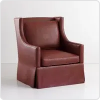
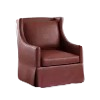
added some code

diff --git a/index.html b/index.html
@@ -46,7 +46,7 @@
                     <div class="full-screen-image">
                         <div class="show-image-column">
                             <div class="display-image">
-                                <img src="./Image/Image-1.png" alt="">
+                                <img src="./Image/test-image.png" alt="">
                             </div>
                             <div class="view-in-room">
                                 <p>View in room</p>
@@ -95,83 +95,83 @@
                         <div class="horizontal-line"></div>
                         <!-- image color variant -->
                         <div class="color-palates">
-                            <div onclick="setColorImage('invert(32%) sepia(12%) saturate(228%) hue-rotate(10deg) brightness(90%) contrast(95%)')"
+                            <div onclick="setColorImage(' invert(21%) sepia(54%) saturate(300%) hue-rotate(4deg) brightness(95%) contrast(83%)')"
                                 class="color-box">
                                 <div class="color Olive"></div>
                                 <h2>Olive</h2>
                             </div>
 
-                            <div onclick="setColorImage('invert(63%) sepia(39%) saturate(374%) hue-rotate(313deg) brightness(91%) contrast(87%)')"
+                            <div onclick="setColorImage(' invert(59%) sepia(11%) saturate(1486%) hue-rotate(348deg) brightness(93%) contrast(91%)')"
                                 class="color-box">
                                 <div class="color Camel"></div>
                                 <h2>Camel</h2>
                             </div>
-                            <div onclick="setColorImage('invert(78%) sepia(4%) saturate(172%) hue-rotate(159deg) brightness(92%) contrast(88%)')"
+                            <div onclick="setColorImage('invert(66%) sepia(11%) saturate(133%) hue-rotate(165deg) brightness(92%) contrast(88%)')"
                                 class="color-box">
                                 <div class="color Platinum-Grey"></div>
                                 <h2>Platinum Grey</h2>
                             </div>
-                            <div onclick="setColorImage('invert(35%) sepia(20%) saturate(303%) hue-rotate(333deg) brightness(88%) contrast(96%)')"
+                            <div onclick="setColorImage('invert(18%) sepia(25%) saturate(1229%) hue-rotate(309deg) brightness(86%) contrast(86%)')"
                                 class="color-box">
                                 <div class="color Oxblood"></div>
                                 <h2>Oxblood</h2>
                             </div>
-                            <div onclick="setColorImage('invert(19%) sepia(11%) saturate(331%) hue-rotate(189deg) brightness(92%) contrast(95%)')"
+                            <div onclick="setColorImage('invert(14%) sepia(8%) saturate(601%) hue-rotate(211deg) brightness(99%) contrast(87%)')"
                                 class="color-box">
                                 <div class="color Anthracite"></div>
                                 <h2>Anthracite</h2>
                             </div>
-                            <div onclick="setColorImage('invert(30%) sepia(82%) saturate(5867%) hue-rotate(339deg) brightness(90%) contrast(97%)')"
+                            <div onclick="setColorImage('invert(69%) sepia(65%) saturate(4467%) hue-rotate(323deg) brightness(100%) contrast(97%)')"
                                 class="color-box">
                                 <div class="color Red"></div>
                                 <h2>Red</h2>
                             </div>
-                            <div onclick="setColorImage('invert(37%) sepia(76%) saturate(4840%) hue-rotate(104deg) brightness(90%) contrast(97%)')"
+                            <div onclick="setColorImage('invert(87%) sepia(9%) saturate(1683%) hue-rotate(61deg) brightness(104%) contrast(87%)')"
                                 class="color-box">
                                 <div class="color Green"></div>
                                 <h2>Green</h2>
                             </div>
-                            <div onclick="setColorImage('invert(54%) sepia(23%) saturate(3138%) hue-rotate(186deg) brightness(90%) contrast(99%)')"
+                            <div onclick="setColorImage(' invert(65%) sepia(40%) saturate(636%) hue-rotate(170deg) brightness(90%) contrast(89%)')"
                                 class="color-box">
                                 <div class="color Blue"></div>
                                 <h2>Blue</h2>
                             </div>
-                            <div onclick="setColorImage('invert(26%) sepia(62%) saturate(1624%) hue-rotate(41deg) brightness(96%) contrast(97%)')"
+                            <div onclick="setColorImage('invert(73%) sepia(52%) saturate(430%) hue-rotate(358deg) brightness(94%) contrast(95%)')"
                                 class="color-box">
                                 <div class="color Orange"></div>
                                 <h2>Orange</h2>
                             </div>
-                            <div onclick="setColorImage('invert(100%) sepia(0%) saturate(11%) hue-rotate(332deg) brightness(98%) contrast(98%)')"
+                            <div onclick="setColorImage(' invert(94%) sepia(18%) saturate(599%) hue-rotate(332deg) brightness(106%) contrast(95%)')"
                                 class="color-box">
                                 <div class="color Yellow"></div>
                                 <h2>Yellow</h2>
                             </div>
-                            <div onclick="setColorImage('invert(76%) sepia(27%) saturate(5438%) hue-rotate(308deg) brightness(90%) contrast(95%)')"
+                            <div onclick="setColorImage('invert(85%) sepia(18%) saturate(6993%) hue-rotate(282deg) brightness(98%) contrast(79%)')"
                                 class="color-box">
                                 <div class="color Pink"></div>
                                 <h2>Pink</h2>
                             </div>
-                            <div onclick="setColorImage('invert(42%) sepia(31%) saturate(547%) hue-rotate(328deg) brightness(92%) contrast(96%)')"
+                            <div onclick="setColorImage('invert(34%) sepia(9%) saturate(3116%) hue-rotate(288deg) brightness(93%) contrast(85%)')"
                                 class="color-box">
                                 <div class="color Maroon"></div>
                                 <h2>Maroon</h2>
                             </div>
-                            <div onclick="setColorImage('invert(75%) sepia(18%) saturate(314%) hue-rotate(215deg) brightness(92%) contrast(91%)')"
+                            <div onclick="setColorImage('invert(76%) sepia(8%) saturate(1417%) hue-rotate(194deg) brightness(98%) contrast(90%)')"
                                 class="color-box">
                                 <div class="color Indigo"></div>
                                 <h2>Indigo</h2>
                             </div>
-                            <div onclick="setColorImage('invert(77%) sepia(64%) saturate(6627%) hue-rotate(280deg) brightness(91%) contrast(96%)')"
+                            <div onclick="setColorImage('invert(56%) sepia(77%) saturate(3477%) hue-rotate(249deg) brightness(99%) contrast(92%)')"
                                 class="color-box">
                                 <div class="color Magenta"></div>
                                 <h2>Magenta</h2>
                             </div>
-                            <div onclick="setColorImage('invert(95%) sepia(38%) saturate(145%) hue-rotate(33deg) brightness(95%) contrast(98%)')"
+                            <div onclick="setColorImage('invert(89%) sepia(24%) saturate(368%) hue-rotate(331deg) brightness(99%) contrast(94%)')"
                                 class="color-box">
                                 <div class="color Tan"></div>
                                 <h2>Tan</h2>
                             </div>
-                            <div onclick="setColorImage('invert(31%) sepia(16%) saturate(577%) hue-rotate(177deg) brightness(96%) contrast(97%)')"
+                            <div onclick="setColorImage('invert(44%) sepia(3%) saturate(4129%) hue-rotate(132deg) brightness(100%) contrast(106%)')"
                                 class="color-box">
                                 <div class="color Teal"></div>
                                 <h2>Teal</h2>

diff --git a/style.css b/style.css
@@ -55,6 +55,8 @@
 .image-list {
     width: 100px;
     height: 100px;
+    background-color: #f7f8f8;
+    border-radius: 5px;
 }
 
 .image-list img {
